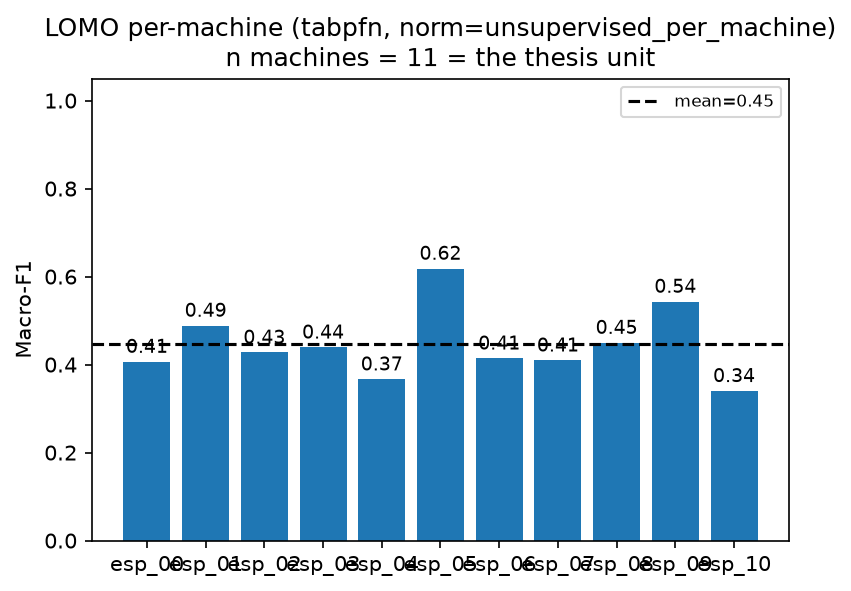
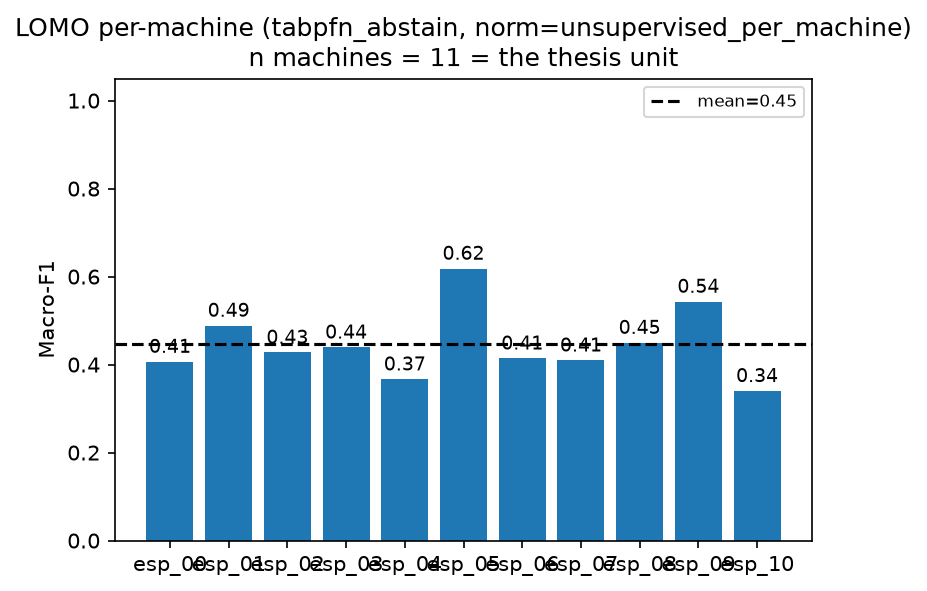
Complete remediation: verification passes, DESIGN relabelled by variant
The §6 assertion holds. Every published ESPset number reproduces to three decimals
under its new registry label — LightGBM 0.666, TabPFN-abstaining 0.753 at coverage
0.81, TabPFN-no-abstain 0.738 at 1.00, logistic 0.663, majority 0.228 — so the
rename changed what the measurements are called and nothing about the measurements.
That was the whole point of specifying the check in advance.

The standing guard now passes: no results file contains a model key outside the
registry. 205 tests, pyflakes clean, 55 figures across four directories.

DESIGN §−2.7 relabelled, which completes the naming fix. The old Twente number was
correct — 0.459 was the no-abstain variant — but the label did not say so, and the
regenerated run shows why that matters:

FINDING the design did not anticipate: abstention's sign flips between datasets. On
ESPset abstaining helps (0.753 at coverage 0.81 vs 0.738 at full coverage); on
Twente's cross-operating split it hurts (0.434 at 0.90 vs 0.459 at 1.00) — the rows
it declines are not the ones it would have got wrong. A bare "TabPFN" number was
therefore hiding a variable-sign effect rather than merely being ambiguous, which
makes the registry rename more valuable than the audit credited.

Also recorded: abstention silently self-disables when the context cannot condition a
covariance (n > 10p), so on Twente's record-wise folds (n=97, p=42) the two variants
are identical and only the larger cross-operating folds separate them. Anyone
[…]

Changed region(s): [[0.0, 0.0305, 1.0, 0.9746]]

diff --git a/DESIGN.md b/DESIGN.md
@@ -108,11 +108,32 @@ actionable commissioning specification, and it is the kind of number the design
 asked for and never had.
 
 **−2.7 TabPFN also wins on Twente's cross-operating split**, its other predicted
-regime: hold out a speed on Motor-2 and TabPFN scores 0.459 vs LightGBM 0.410,
-logistic 0.134, majority 0.126. On synthetic data with abundant, well-separated
-samples LightGBM won. The pattern across all three is consistent with the design's
-own argument (§6.1): TabPFN's advantage appears at small n and under distribution
-shift, and disappears when data is plentiful and clean.
+regime. Hold out a speed on Motor-2:
+
+| Model | Macro-F1 | Coverage |
+|---|---|---|
+| majority | 0.126 | 1.00 |
+| logistic | 0.134 | 1.00 |
+| LightGBM | 0.410 | 1.00 |
+| TabPFN (abstaining) | 0.434 | 0.90 |
+| **TabPFN (no abstain)** | **0.459** | 1.00 |
+
+At matched coverage TabPFN beats LightGBM 0.459 vs 0.410. On synthetic data with
+abundant, well-separated samples LightGBM won instead. The pattern across all three
+datasets matches the design's own argument (§6.1): TabPFN's advantage appears at
+small n and under distribution shift, and disappears when data is plentiful and clean.
+
+⚠ **Abstention is not free, and its sign flips between datasets.** On ESPset
+abstaining *helps* (0.753 at coverage 0.81 vs 0.738 at full coverage); here it
+*hurts* (0.434 at 0.90 vs 0.459 at 1.00) — the rows it declines are not the ones it
+would have got wrong. Report the variant and its coverage, never a bare "TabPFN"
+number; that ambiguity was a real defect in this repo until the model registry
+(`pumpwatch/models.py`) removed the bare name entirely.
+
+Note also that abstention silently self-disables when the context cannot condition a
+covariance (n > 10p). On Twente's record-wise folds — n=97 for p=42 — the two
+variants are therefore *identical*, and only the larger cross-operating folds
+separate them.
 
 **−2.8 ⛔ At a realistic alarm budget the best model catches 20% of faults, and
 the GBDT only 8%.** The most important operational number in the project, and it

diff --git a/remediation.md b/remediation.md
@@ -1,7 +1,22 @@
 # remediation.md — system design for the post-audit fixes
 
-**Companion to [DESIGN.md](DESIGN.md).** Design only; no code changes accompany this
-document.
+**Companion to [DESIGN.md](DESIGN.md).**
+
+> **STATUS: executed.** All nine issues are closed. Tests 168 → 205, pyflakes 33 → 0,
+> and the §6 verification passed — every published number reproduces to three
+> decimals under its new label, which is what proves the rename was cosmetic rather
+> than behavioural. §1.5 was resolved by **demotion**: `node/acquire.py` now carries
+> an explicit "design model, not pipeline code" header rather than being wired into
+> the feature path, because wiring it would change Twente feature values for no
+> scientific reason.
+>
+> One thing the execution surfaced that the design did not anticipate: abstention's
+> *sign flips between datasets* — it helps on ESPset (+0.015) and hurts on Twente
+> (−0.025). That makes the naming fix more valuable than it looked here, since a
+> bare "TabPFN" number was hiding a variable-sign effect, not just an ambiguity.
+> Recorded in DESIGN §−2.7.
+
+The design below is kept as written, for the record.
 
 ---
 
